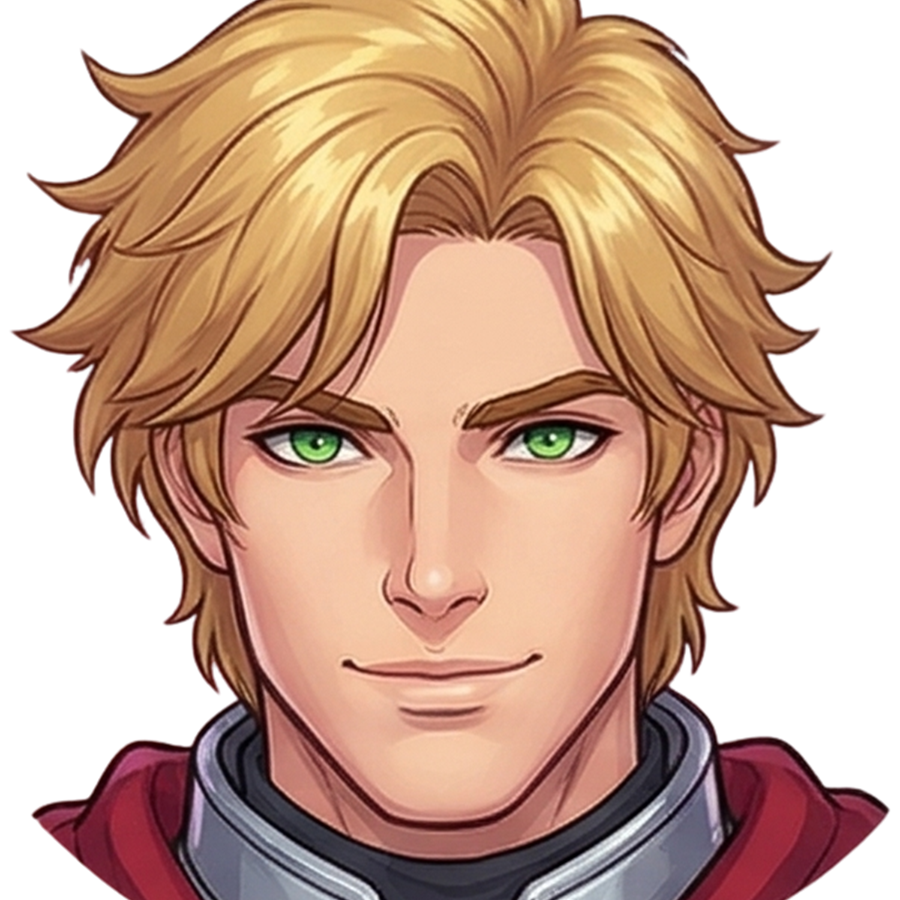
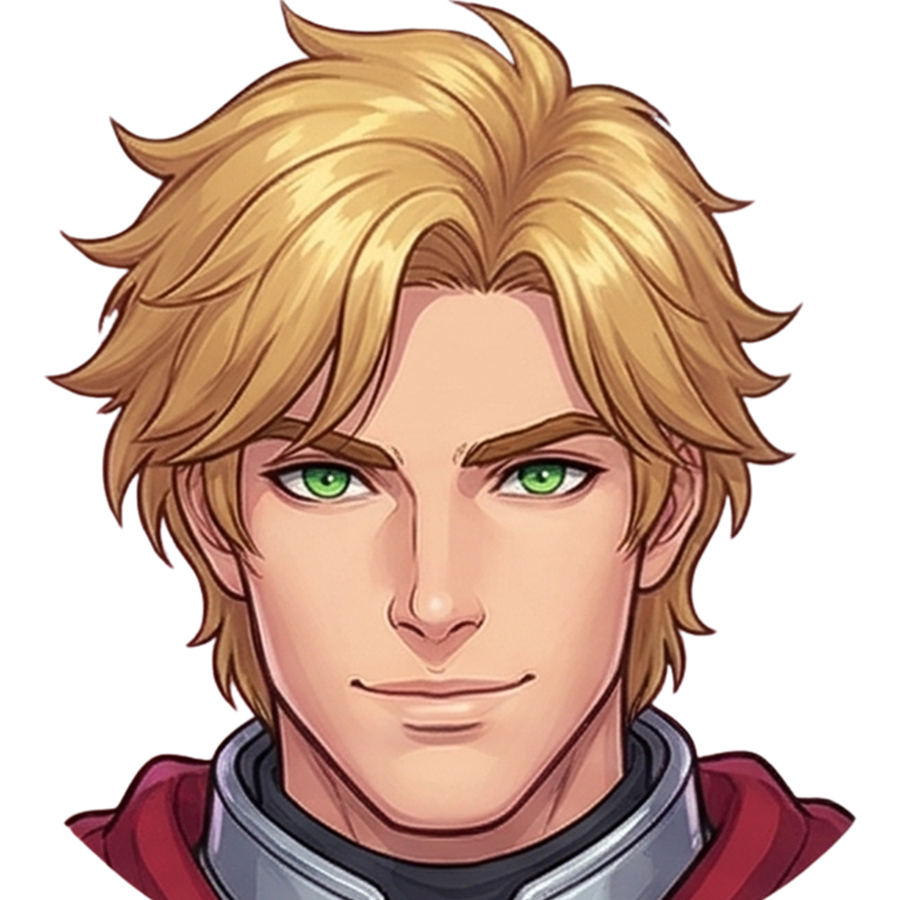
Chronicle premium pass: portrait v3 per-face crops + painted gold-rose ornaments
Portraits (owner notes): Alistair full hair + smaller, Lyra fins intact,
Caspian raised with crown kept, Lucien zoomed out + full hair, Noir eased
back. Elian and Proto untouched (approved reference scale).

Companion page: jeweled heart divider in header, 4 sliced rose-corner
ornaments + bond medallion + slim dividers + crimson CARE button on the
active card, velvet chrome + under-name rose dividers on roster cards.
All existing ids/classes/JS hooks unchanged; locked states dim ornaments.

diff --git a/css/screens/select.css b/css/screens/select.css
@@ -1661,3 +1661,208 @@ body:has(#daily-reward-overlay:not(.hidden)) #select-screen {
     #select-screen::before,
     .cc-threads-section::before { animation: none; }
 }
+
+
+/* ═══════════════════════════════════════════════════════════════════════════
+   PREMIUM ORNAMENT PASS (v983) — owner direction Jul 2026
+   ───────────────────────────────────────────────────────────────────────────
+   Real painted gold-rose ornament art (assets/ui/chronicle/) replaces the
+   plain CSS corner brackets. Reference: owner's premium mockup — ornate
+   framing, jewel medallion bond badge, richer velvet cards. No chapter
+   banner on this page (owner: story lives in the STORY tab).
+   All rules override earlier blocks by cascade order — the HTML hooks and
+   JS contracts (ids, select-card classes, is-locked flows) are unchanged.
+   ═══════════════════════════════════════════════════════════════════════════ */
+
+/* ─── HEADER — painted rose-heart divider above the title ─── */
+.cc-heart-divider::before,
+.cc-heart-divider::after { content: none; }
+.cc-hdr-divider-img {
+    height: 30px;
+    width: auto;
+    max-width: 78%;
+    object-fit: contain;
+    display: block;
+    filter: drop-shadow(0 0 10px rgba(232, 76, 140, 0.35));
+}
+
+/* ─── ACTIVE COMPANION — ornate rose brackets + deeper velvet ─── */
+.cc-active-companion::before,
+.cc-active-companion::after { content: none; }  /* retire the CSS corner ticks */
+
+.cc-active-companion {
+    padding: 18px 16px 20px;
+    border-radius: 18px;
+    border-color: rgba(212, 168, 91, 0.50);
+    background:
+        radial-gradient(130% 100% at 18% 0%, rgba(122, 18, 36, 0.28) 0%, transparent 55%),
+        radial-gradient(120% 90% at 85% 100%, rgba(80, 32, 110, 0.30) 0%, transparent 60%),
+        linear-gradient(180deg, rgba(40, 16, 50, 0.92) 0%, rgba(13, 7, 22, 0.97) 100%);
+    box-shadow:
+        inset 0 0 0 1px rgba(212, 168, 91, 0.16),
+        inset 0 1px 0 rgba(255, 200, 220, 0.10),
+        0 12px 30px -8px rgba(0, 0, 0, 0.75),
+        0 0 40px rgba(154, 69, 103, 0.22);
+}
+.cc-active-portrait,
+.cc-active-info { position: relative; z-index: 2; }
+
+/* Painted gold-rose corner ornaments — sliced from the tall bracket art
+   (corner-rose-left.png) into 4 pieces so they scale on narrow phones. */
+.cc-bracket {
+    position: absolute;
+    width: 86px;
+    aspect-ratio: 166 / 120;
+    background-size: contain;
+    background-repeat: no-repeat;
+    pointer-events: none;
+    z-index: 1;
+    opacity: 0.95;
+    filter: drop-shadow(0 2px 6px rgba(0, 0, 0, 0.45));
+}
+.cc-bracket-tl { top: -4px;    left: -4px;  background-image: url('../../assets/ui/chronicle/corner-rose-tl.png'); background-position: left top; }
+.cc-bracket-tr { top: -4px;    right: -4px; background-image: url('../../assets/ui/chronicle/corner-rose-tr.png'); background-position: right top; }
+.cc-bracket-bl { bottom: -4px; left: -4px;  background-image: url('../../assets/ui/chronicle/corner-rose-bl.png'); background-position: left bottom; }
+.cc-bracket-br { bottom: -4px; right: -4px; background-image: url('../../assets/ui/chronicle/corner-rose-br.png'); background-position: right bottom; }
+.cc-active-companion.is-locked .cc-bracket {
+    opacity: 0.22;
+    filter: grayscale(1) brightness(0.7);
+}
+
+/* Slim gold divider between the bond row and the quote */
+.cc-active-quote::before {
+    content: "";
+    display: block;
+    height: 13px;
+    margin: 0 0 8px;
+    background: url('../../assets/ui/chronicle/divider-slim.png') left center / auto 13px no-repeat;
+    opacity: 0.55;
+}
+
+/* ─── BOND MEDALLION — jewel rose-heart with the level number ─── */
+.cc-active-companion .cc-bond-badge,
+#cc-bond-badge {
+    width: 46px;
+    height: 62px;
+    border-radius: 0;
+    border: none;
+    background: url('../../assets/ui/chronicle/medallion-rose.png') center / contain no-repeat;
+    box-shadow: none;
+    display: flex;
+    align-items: center;
+    justify-content: center;
+    padding-top: 2px;
+    font-size: 15px;
+    font-weight: 600;
+    color: #FFF6FA;
+    text-shadow:
+        0 1px 3px rgba(40, 4, 12, 0.95),
+        0 0 8px rgba(232, 76, 140, 0.65);
+    filter: drop-shadow(0 0 10px var(--cc-char-glow, rgba(232, 76, 140, 0.40)));
+}
+.cc-active-companion.is-locked .cc-bond-badge {
+    background: url('../../assets/ui/chronicle/medallion-rose.png') center / contain no-repeat;
+    border: none;
+    box-shadow: none;
+    filter: grayscale(1) brightness(0.55);
+    color: rgba(255, 246, 250, 0.55);
+}
+
+/* ─── CARE BUTTON — crimson velvet, double gold ring, shimmer sweep ─── */
+.cc-action-btn.cc-action-care {
+    min-width: 188px;
+    padding: 13px 30px;
+    border-radius: 24px;
+    background: linear-gradient(180deg, #8E1E33 0%, #5A0E1F 55%, #4A0A1A 100%);
+    border: 1px solid rgba(242, 214, 144, 0.85);
+    box-shadow:
+        0 0 0 3px rgba(74, 10, 26, 0.55),
+        0 0 0 4px rgba(212, 168, 91, 0.35),
+        0 6px 18px -4px rgba(0, 0, 0, 0.7),
+        0 0 26px rgba(232, 76, 140, 0.22);
+    font-size: 12px;
+    letter-spacing: 0.26em;
+    color: #FFEFF5;
+}
+.cc-action-btn.cc-action-care:hover {
+    box-shadow:
+        0 0 0 3px rgba(74, 10, 26, 0.65),
+        0 0 0 4px rgba(232, 200, 138, 0.55),
+        0 8px 22px -4px rgba(0, 0, 0, 0.8),
+        0 0 38px rgba(232, 76, 140, 0.38);
+}
+/* Gold shimmer sweeping across the CARE button every few seconds */
+.cc-action-btn.cc-action-care::before {
+    content: "";
+    position: absolute;
+    top: 0; bottom: 0;
+    width: 46px;
+    left: -60px;
+    background: linear-gradient(100deg, transparent 0%, rgba(255, 235, 200, 0.28) 50%, transparent 100%);
+    transform: skewX(-18deg);
+    animation: ppCcCareShimmer 4.2s ease-in-out infinite;
+    pointer-events: none;
+}
+@keyframes ppCcCareShimmer {
+    0%, 62%  { left: -60px; }
+    82%, 100% { left: 110%; }
+}
+.cc-action-btn.cc-action-care .cc-action-icon { font-size: 13px; }
+
+/* Favourite button — gold ring finish */
+.cc-favorite-btn {
+    border-color: rgba(242, 214, 144, 0.75);
+    box-shadow:
+        0 0 10px rgba(212, 168, 91, 0.35),
+        inset 0 0 6px rgba(212, 168, 91, 0.22);
+    z-index: 5;
+}
+
+/* ─── THREAD CARDS — velvet chrome + brighter corner jewels ─── */
+.cc-thread-card.select-card {
+    border: 1px solid rgba(212, 168, 91, 0.55);
+    border-radius: 16px;
+    background:
+        radial-gradient(120% 90% at 50% 0%, rgba(80, 32, 96, 0.35) 0%, transparent 55%),
+        linear-gradient(180deg, rgba(46, 18, 62, 0.90) 0%, rgba(13, 7, 22, 0.96) 100%);
+    box-shadow:
+        inset 0 0 0 1px rgba(212, 168, 91, 0.14),
+        inset 0 1px 0 rgba(255, 200, 220, 0.10),
+        0 8px 18px -4px rgba(0, 0, 0, 0.70);
+}
+.cc-thread-card.select-card::before,
+.cc-thread-card.select-card::after {
+    width: 12px;
+    height: 12px;
+    border-width: 1.5px;
+    border-color: rgba(232, 200, 138, 0.85);
+    filter: drop-shadow(0 0 4px rgba(212, 168, 91, 0.55));
+}
+.cc-thread-card.select-card::before { border-top-left-radius: 5px; }
+.cc-thread-card.select-card::after  { border-bottom-right-radius: 5px; }
+
+/* Slim gold rose divider under each companion name */
+.cc-thread-name.select-card-name::after {
+    content: "";
+    display: block;
+    height: 12px;
+    width: 82%;
+    margin: 3px auto 0;
+    background: url('../../assets/ui/chronicle/divider-slim.png') center / contain no-repeat;
+    opacity: 0.65;
+}
+.cc-thread-locked.select-card .cc-thread-name.select-card-name::after,
+.cc-thread-card.ms-locked .cc-thread-name.select-card-name::after,
+.cc-thread-card.select-card-locked .cc-thread-name.select-card-name::after {
+    opacity: 0.22;
+    filter: grayscale(1);
+}
+
+@media (prefers-reduced-motion: reduce) {
+    .cc-action-btn.cc-action-care::before { animation: none; opacity: 0; }
+}
+
+@media (max-width: 390px) {
+    .cc-bracket { width: 72px; }
+    .cc-action-btn.cc-action-care { min-width: 170px; padding: 12px 24px; }
+}

diff --git a/index.html b/index.html
@@ -318,7 +318,7 @@
         <header class="cc-header">
             <span class="cc-corner-spacer" aria-hidden="true"></span>
             <div class="cc-title-block">
-                <div class="cc-heart-divider">❤</div>
+                <div class="cc-heart-divider"><img class="cc-hdr-divider-img" src="assets/ui/chronicle/divider-heart.png" alt=""></div>
                 <h2 id="select-title" class="cc-title">COMPANION CHRONICLE</h2>
                 <div id="select-subtitle" class="cc-tagline">Every care leaves a mark.</div>
             </div>
@@ -383,6 +383,10 @@
                     </div>
                 </div>
                 <button class="cc-favorite-btn" type="button" aria-label="Favourite">♡</button>
+                <span class="cc-bracket cc-bracket-tl" aria-hidden="true"></span>
+                <span class="cc-bracket cc-bracket-tr" aria-hidden="true"></span>
+                <span class="cc-bracket cc-bracket-bl" aria-hidden="true"></span>
+                <span class="cc-bracket cc-bracket-br" aria-hidden="true"></span>
             </section>
 
             <!-- Other Threads of Fate -->

diff --git a/sw.js b/sw.js
@@ -1,4 +1,4 @@
-const CACHE_NAME = 'pocket-love-v982';
+const CACHE_NAME = 'pocket-love-v983';
 
 // -----------------------------------------------------------------------------
 // CORE_ASSETS — the manifest. Must match the <script> tags in index.html so
